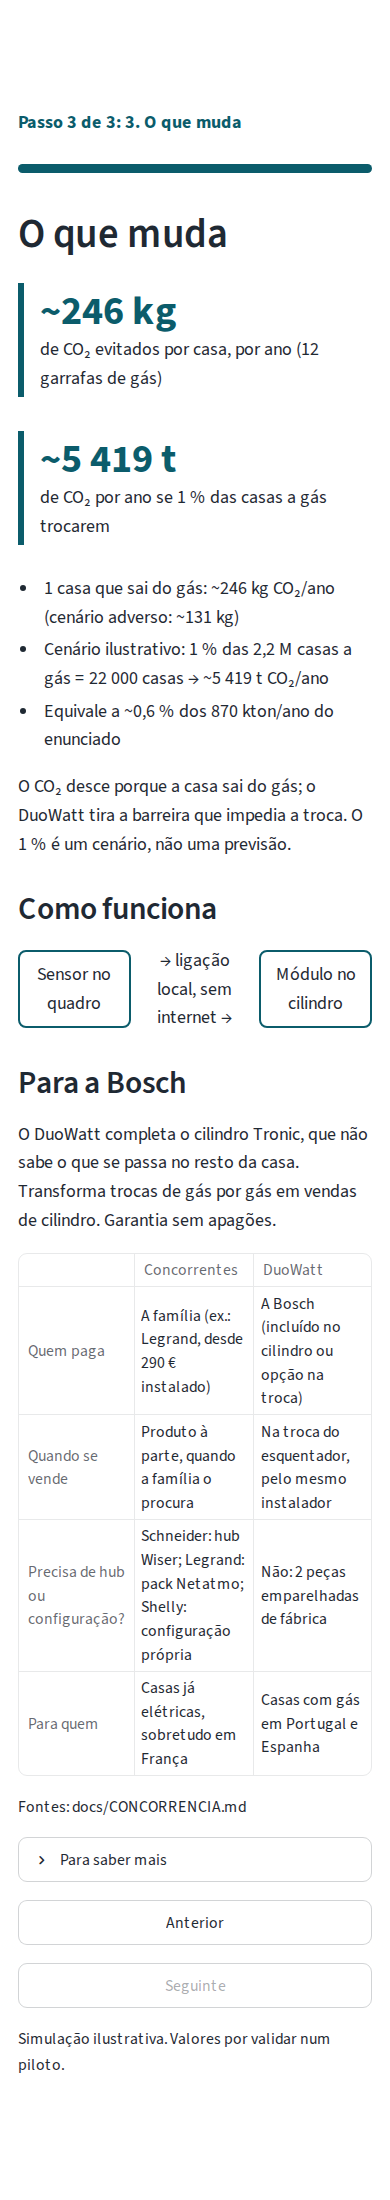
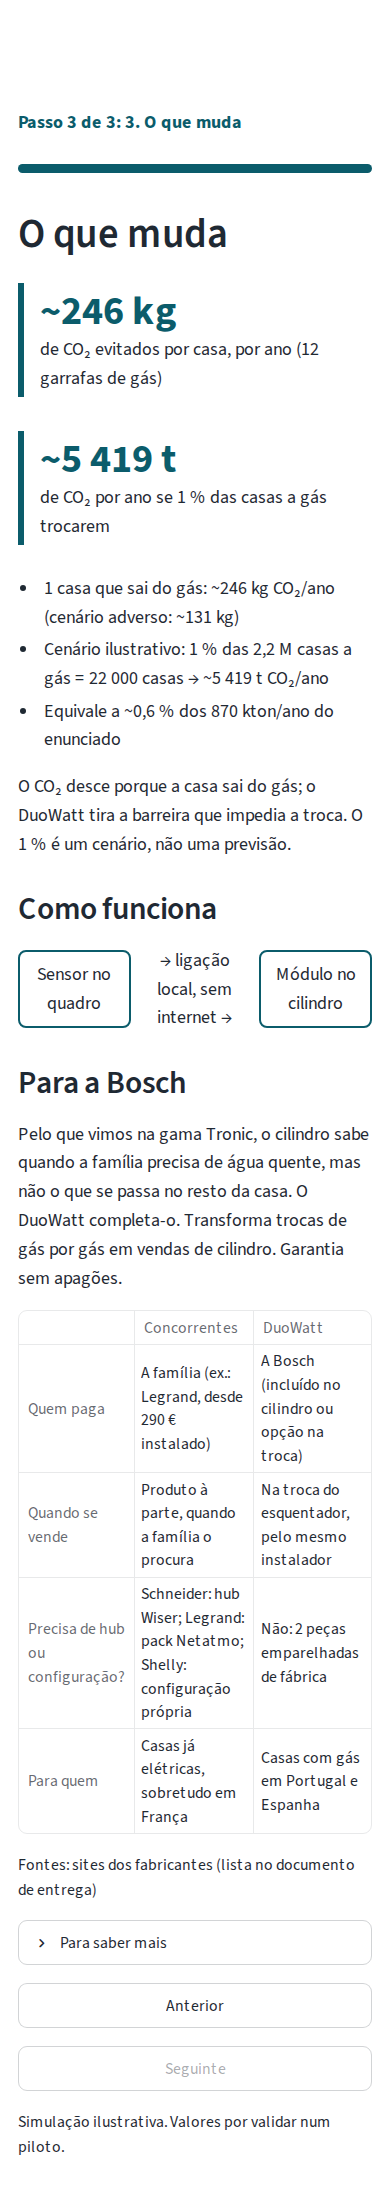
Demo: fontes, texto Tronic e âncoras dos títulos escondidas

diff --git a/app.py b/app.py
@@ -147,7 +147,7 @@ def ecra3():
     if IMG.exists():
         st.image(str(IMG), caption="Imagem concetual", alt="Imagem concetual do kit DuoWatt")
     st.subheader("Para a Bosch")
-    st.write("O DuoWatt completa o cilindro Tronic, que não sabe o que se passa no resto da casa. "
+    st.write("Pelo que vimos na gama Tronic, o cilindro sabe quando a família precisa de água quente, mas não o que se passa no resto da casa. O DuoWatt completa-o. "
              "Transforma trocas de gás por gás em vendas de cilindro. Garantia sem apagões.")
     neg = [(r, f"{pt(NEG[k], 2) if isinstance(NEG[k], float) else pt(NEG[k]) if isinstance(NEG[k], int) else NEG[k]}{u}")
            for k, r, u in NEG_CAMPOS if NEG.get(k) is not None]
@@ -160,7 +160,7 @@ def ecra3():
         "DuoWatt": ["A Bosch (incluído no cilindro ou opção na troca)", "Na troca do esquentador, pelo mesmo instalador",
                     "Não: 2 peças emparelhadas de fábrica", "Casas com gás em Portugal e Espanha"],
     }).set_index(""))
-    st.caption("Fontes: docs/CONCORRENCIA.md")
+    st.caption("Fontes: sites dos fabricantes (lista no documento de entrega)")
     with st.expander("Para saber mais"):
         st.markdown(f"""
 - **Regras de controlo (pelo conceito):** o cilindro desliga quando a casa chega a 90 % do limite, volta a ligar abaixo de 80 %, e a pausa nunca passa de 30 min seguidos. Se o sensor deixar de comunicar, o cilindro funciona como sem DuoWatt (modo seguro).
@@ -180,5 +180,5 @@ st.progress((st.session_state.passo + 1) / 3)
 a, b = st.columns(2)
 a.button("Anterior", on_click=ir, args=(-1,), disabled=st.session_state.passo == 0, width="stretch")
 b.button("Seguinte", on_click=ir, args=(1,), disabled=st.session_state.passo == 2, width="stretch", type="primary")
-st.html("<style>[data-testid=stCaptionContainer],[data-testid=stCaptionContainer] p{color:#1f2933!important;opacity:1!important}</style>")
+st.html("<style>[data-testid=stCaptionContainer],[data-testid=stCaptionContainer] p{color:#1f2933!important;opacity:1!important}[data-testid=stHeaderActionElements],.stHeadingActionElements{display:none!important}</style>")
 st.caption("Simulação ilustrativa. Valores por validar num piloto.")
